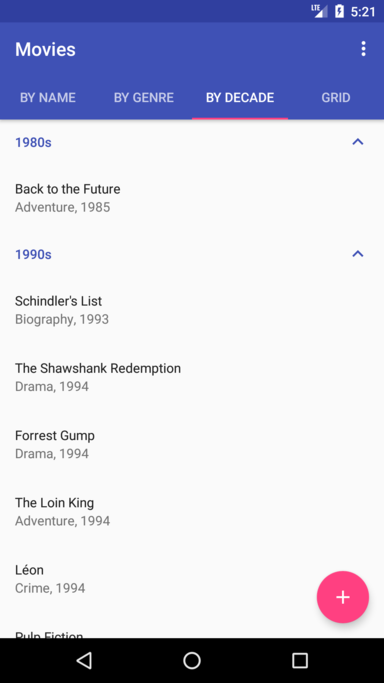
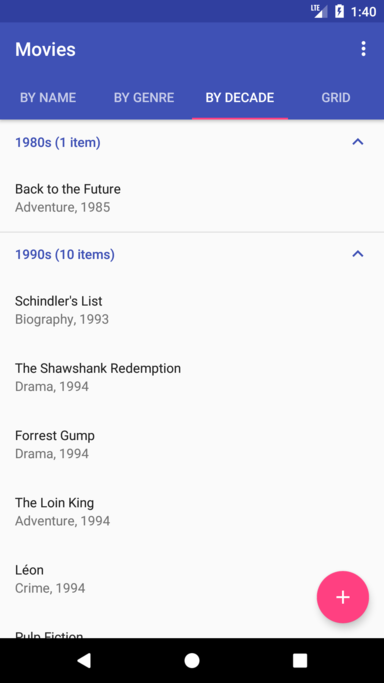
prepare release of 1.2.0

diff --git a/sample/src/main/java/zhukic/sample/adapters/MovieAdapterByName.java b/sample/src/main/java/zhukic/sample/adapters/MovieAdapterByName.java
@@ -15,10 +15,10 @@ public class MovieAdapterByName extends BaseMovieAdapter {
 
     @Override
     public boolean onPlaceSubheaderBetweenItems(int position) {
-        final Movie movie = movieList.get(position);
-        final Movie nextMovie = movieList.get(position + 1);
+        final char movieFirstCharacter = movieList.get(position).getName().charAt(0);
+        final char nextMovieFirstCharacter = movieList.get(position + 1).getName().charAt(0);
 
-        return !movie.getName().substring(0, 1).equals(nextMovie.getName().substring(0, 1));
+        return movieFirstCharacter != nextMovieFirstCharacter;
     }
 
     @Override
@@ -38,10 +38,10 @@ public class MovieAdapterByName extends BaseMovieAdapter {
         final Context context = subheaderHolder.itemView.getContext();
         final Movie nextMovie = movieList.get(nextItemPosition);
         final int sectionSize = getSectionSize(getSectionIndex(subheaderHolder.getAdapterPosition()));
-        final String genre = nextMovie.getName().substring(0, 1);
+        final String name = nextMovie.getName().substring(0, 1);
         final String subheaderText = String.format(
                 context.getString(R.string.subheader),
-                genre,
+                name,
                 context.getResources().getQuantityString(R.plurals.item, sectionSize, sectionSize)
         );
         subheaderHolder.mSubheaderText.setText(subheaderText);

diff --git a/sample/src/main/java/zhukic/sample/adapters/MovieAdapterByDecade.java b/sample/src/main/java/zhukic/sample/adapters/MovieAdapterByDecade.java
@@ -15,10 +15,10 @@ public class MovieAdapterByDecade extends BaseMovieAdapter {
 
     @Override
     public boolean onPlaceSubheaderBetweenItems(int position) {
-        final Movie movie = movieList.get(position);
-        final Movie nextMovie = movieList.get(position + 1);
+        final int movieDecade = movieList.get(position).getYear() / 10;
+        final int nextMovieDecade = movieList.get(position + 1).getYear() / 10;
 
-        return movie.getYear() / 10 != nextMovie.getYear() / 10;
+        return movieDecade != nextMovieDecade;
     }
 
     @Override

diff --git a/sample/src/main/java/zhukic/sample/adapters/MovieAdapterByGenre.java b/sample/src/main/java/zhukic/sample/adapters/MovieAdapterByGenre.java
@@ -14,10 +14,10 @@ public class MovieAdapterByGenre extends BaseMovieAdapter {
 
     @Override
     public boolean onPlaceSubheaderBetweenItems(int position) {
-        final Movie movie = movieList.get(position);
-        final Movie nextMovie = movieList.get(position + 1);
+        final String movieGenre = movieList.get(position).getGenre();
+        final String nextMovieGenre = movieList.get(position + 1).getGenre();
 
-        return !movie.getGenre().equals(nextMovie.getGenre());
+        return !movieGenre.equals(nextMovieGenre);
     }
 
     @Override
